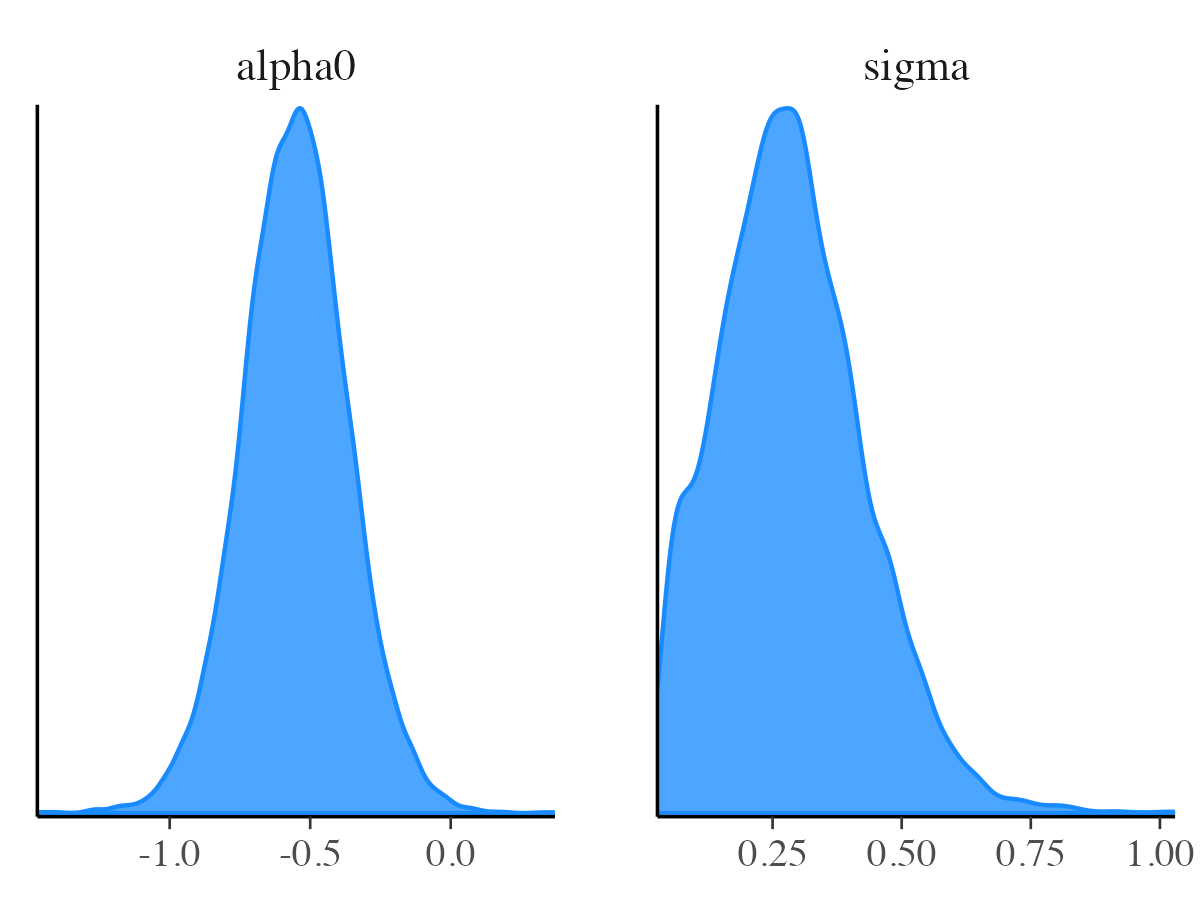
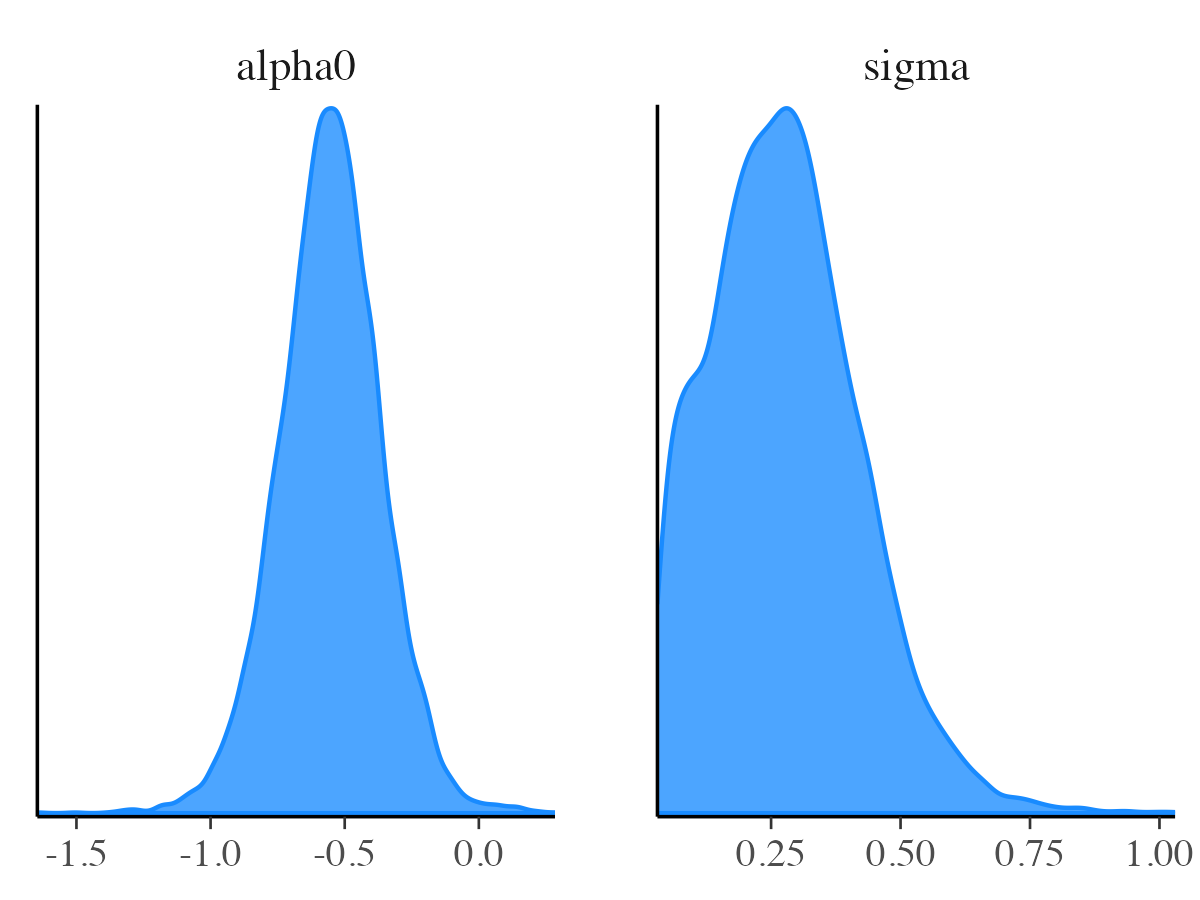
deploy: cf01e5e562e8ffa440246a15912ad82c4c2bbcb3

diff --git a/articles/rjuliabugs.html b/articles/rjuliabugs.html
@@ -261,16 +261,16 @@ through <code>summary</code> function</p>
 <span><span class="co">#&gt; Summary Statistics:</span></span>
 <span><span class="co">#&gt; </span></span>
 <span><span class="co">#&gt;  parameters     mean      std      mcse ess_bulk ess_tail  rhat ess_per_sec</span></span>
-<span><span class="co">#&gt;         tau 45.96480 149.0534 11.722812      418    270.9 1.010          NA</span></span>
-<span><span class="co">#&gt;     alpha12 -0.84105   0.4442  0.007842     3204   3919.3 1.001          NA</span></span>
-<span><span class="co">#&gt;      alpha2  1.35942   0.2816  0.005006     3230   3790.6 1.002          NA</span></span>
-<span><span class="co">#&gt;      alpha1  0.09248   0.3224  0.005647     3300   3157.5 1.001          NA</span></span>
-<span><span class="co">#&gt;      alpha0 -0.55607   0.1960  0.003519     3125   3874.8 1.001          NA</span></span>
-<span><span class="co">#&gt;        b[1] -0.19590   0.2574  0.005145     2665   4337.6 1.001          NA</span></span>
-<span><span class="co">#&gt;        b[2]  0.01291   0.2229  0.003009     5713   3768.9 1.002          NA</span></span>
-<span><span class="co">#&gt;        b[3] -0.20007   0.2398  0.005121     2186   3816.6 1.001          NA</span></span>
-<span><span class="co">#&gt;        b[4]  0.28239   0.2651  0.007103     1342   4283.6 1.004          NA</span></span>
-<span><span class="co">#&gt;        b[5]  0.12708   0.2463  0.004241     3652   4244.1 1.002          NA</span></span>
+<span><span class="co">#&gt;         tau 72.22006 184.7344 30.583728    119.7    35.36 1.041          NA</span></span>
+<span><span class="co">#&gt;     alpha12 -0.82557   0.4351  0.009454   2088.3  3423.13 1.004          NA</span></span>
+<span><span class="co">#&gt;      alpha2  1.36762   0.2746  0.005128   2866.8  3565.32 1.004          NA</span></span>
+<span><span class="co">#&gt;      alpha1  0.08733   0.3127  0.005406   3331.9  3799.26 1.005          NA</span></span>
+<span><span class="co">#&gt;      alpha0 -0.56282   0.1945  0.003738   2572.3  3529.05 1.004          NA</span></span>
+<span><span class="co">#&gt;        b[1] -0.19019   0.2653  0.008022   1126.7  3680.60 1.005          NA</span></span>
+<span><span class="co">#&gt;        b[2]  0.01451   0.2211  0.003209   4731.3  4128.59 1.008          NA</span></span>
+<span><span class="co">#&gt;        b[3] -0.19073   0.2319  0.006630   1338.2  3440.42 1.005          NA</span></span>
+<span><span class="co">#&gt;        b[4]  0.27368   0.2635  0.009794    696.9  3787.88 1.008          NA</span></span>
+<span><span class="co">#&gt;        b[5]  0.12308   0.2420  0.004863   2945.7  3788.34 1.004          NA</span></span>
 <span><span class="co">#&gt;          ...</span></span>
 <span><span class="co">#&gt;   17 rows omitted</span></span></code></pre></div>
 <p>If we wish to obtain the summary statistics for each saved parameter,
@@ -381,7 +381,7 @@ package:</p>
 <span></span>
 <span><span class="co"># Example: effective sample size</span></span>
 <span><span class="fu">posterior</span><span class="fu">::</span><span class="fu"><a href="https://mc-stan.org/posterior/reference/ess_basic.html" class="external-link">ess_basic</a></span><span class="op">(</span><span class="va">posterior</span><span class="op">$</span><span class="va">params</span><span class="op">[</span>,,<span class="st">"alpha0"</span><span class="op">]</span><span class="op">)</span></span>
-<span><span class="co">#&gt; [1] 3102.201</span></span></code></pre></div>
+<span><span class="co">#&gt; [1] 2708.541</span></span></code></pre></div>
 </div>
 <div class="section level2">
 <h2 id="saving-and-loading-the-rjuliabugs-model">Saving and loading the <code>rjuliabugs</code> model<a class="anchor" aria-label="anchor" href="#saving-and-loading-the-rjuliabugs-model"></a>
